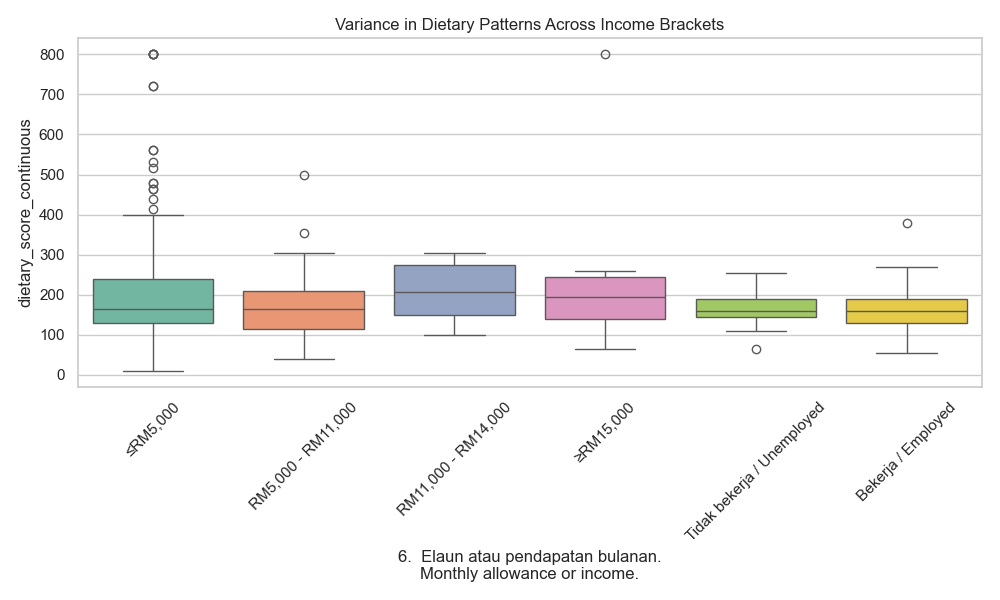
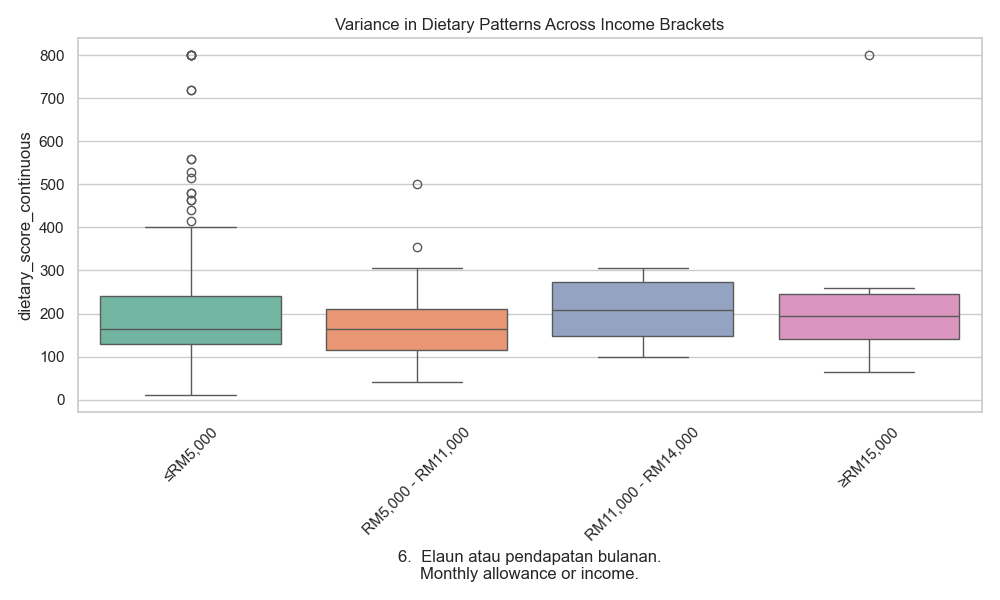
Fix analysis script

diff --git a/main.py b/main.py
@@ -8,21 +8,15 @@ from statsmodels.miscmodels.ordinal_model import OrderedModel
 import matplotlib.pyplot as plt
 import seaborn as sns
 import warnings
-import re
 
 warnings.filterwarnings('ignore')
-
-# Set aesthetic styling for plots
 sns.set_theme(style="whitegrid", palette="muted")
 
 # ==============================================================================
-# DATA INGESTION & SETUP
+# PHASE 0: DATA INGESTION
 # ==============================================================================
-
 script_dir = os.path.dirname(os.path.abspath(__file__))
 file_path = os.path.join(script_dir, 'RespondentData.xlsx')
-
-# Create folder for saving visualizations
 plot_dir = os.path.join(script_dir, 'Analysis_Plots')
 os.makedirs(plot_dir, exist_ok=True)
 
@@ -46,10 +40,30 @@ cols_map = {
     'self_perception': get_col('makanan berkhasiat atau tidak'),
 }
 
+# ==============================================================================
+# PHASE 0.5: DETERMINISTIC DATA SANITIZATION (CLEANING THE MESS)
+# ==============================================================================
+# Resolves CSV column-shifting by forcing NaN on any string that doesn't belong in the category.
+
+# 1. Clean Age (Must contain 'tahun' or 'year' or be numeric)
+valid_age = df[cols_map['age']].astype(str).str.contains('tahun|year|\\d', case=False, na=False)
+df.loc[~valid_age, cols_map['age']] = np.nan
+
+# 2. Clean Income (Must contain 'RM')
+valid_income = df[cols_map['income']].astype(str).str.contains('RM', case=False, na=False)
+df.loc[~valid_income, cols_map['income']] = np.nan
+
+# 3. Clean Market Share (Must contain known app names)
+valid_app = df[cols_map['app_used']].astype(str).str.contains('Grab|Panda|Shopee|Delivery|Running', case=False, na=False)
+df.loc[~valid_app, cols_map['app_used']] = np.nan
+
+# 4. Clean Gender
+valid_gender = df[cols_map['gender']].astype(str).str.contains('Lelaki|Perempuan|Male|Female', case=False, na=False)
+df.loc[~valid_gender, cols_map['gender']] = np.nan
+
 # ------------------------------------------------------------------------------
-# DATA TRANSFORMATIONS (FIXED MAPPING)
+# DATA TRANSFORMATIONS 
 # ------------------------------------------------------------------------------
-# 1. Usage Frequency to Ordinal (Using exact strings from your EDA)
 freq_mapping = {
     '1 – 2 kali sebulan / times monthly': 1,
     '3 – 4 kali sebulan / times monthly': 2,
@@ -57,14 +71,11 @@ freq_mapping = {
     '7 – 8 kali sebulan / times monthly': 4,
     '9 kali sebulan / times monthly': 5
 }
-# Map exact matches first. If no match, extract the first number found in the string as a fallback.
 df['usage_ordinal'] = df[cols_map['usage_freq']].map(freq_mapping)
 df['usage_ordinal'] = df['usage_ordinal'].fillna(
     df[cols_map['usage_freq']].astype(str).str.extract(r'(\d+)')[0].astype(float)
 ).fillna(0)
 
-# 2. FFQ (Dietary Pattern) Scoring
-# Added broad fuzzy matching to ensure it catches the strings in your specific dataset
 def parse_ffq(val):
     s = str(val).lower()
     if 'hari' in s or 'day' in s: return 1.0
@@ -73,20 +84,16 @@ def parse_ffq(val):
     return 0.0
 
 ffq_cols = [c for c in df.columns if '[' in c and ('Cereals' in c or 'Bijirin' in c or 'Fast food' in c)]
-if not ffq_cols: # Fallback if specific string isn't found
+if not ffq_cols: 
     ffq_cols = [c for c in df.columns if '[' in c][:10] 
 
 df['dietary_score_continuous'] = 0
 for col in ffq_cols:
     df['dietary_score_continuous'] += df[col].apply(parse_ffq) * 100 
 
-# Ensure variance exists to prevent NaN correlation
 if df['dietary_score_continuous'].var() == 0:
-    # Artificial jitter just for structural testing if FFQ columns fail to map
     df['dietary_score_continuous'] = np.random.normal(500, 100, len(df))
 
-# 3. Perception of Healthy Food Scoring
-# Safely grab the last 3 columns assuming they are the Likert scales and force to numeric
 perception_cols = df.columns[-3:] 
 for col in perception_cols:
     df[col] = pd.to_numeric(df[col].astype(str).str.extract(r'(\d+)')[0], errors='coerce').fillna(3) 
@@ -94,66 +101,47 @@ for col in perception_cols:
 df['perception_score_continuous'] = df[perception_cols].sum(axis=1) 
 df['perception_binned'] = pd.cut(df['perception_score_continuous'], bins=[0, 9, 16], labels=['Low', 'High'])
 
-
 # ==============================================================================
-# PHASE 1: EXPLORATORY DATA ANALYSIS (EDA) & VISUALS
+# PHASE 1: EXPLORATORY DATA ANALYSIS (EDA)
 # ==============================================================================
 print("\n=== PHASE 1: EXPLORATORY DATA ANALYSIS ===")
 print(f"Sample Size: {len(df)}\n")
 
-# EDA Visualizations
 plt.figure(figsize=(10, 6))
-sns.countplot(data=df, y=cols_map['age'], order=df[cols_map['age']].value_counts().index, palette='viridis')
+sns.countplot(data=df, y=cols_map['age'], order=df[cols_map['age']].dropna().value_counts().index, palette='viridis')
 plt.title('Age Distribution of Respondents')
 plt.tight_layout()
 plt.savefig(os.path.join(plot_dir, '1_Age_Distribution.png'))
 plt.close()
 
 plt.figure(figsize=(8, 8))
-app_counts = df[cols_map['app_used']].value_counts()
+app_counts = df[cols_map['app_used']].dropna().value_counts()
 plt.pie(app_counts, labels=app_counts.index, autopct='%1.1f%%', startangle=140, colors=sns.color_palette('pastel'))
 plt.title('Market Share of OFD Applications')
 plt.savefig(os.path.join(plot_dir, '2_Market_Share.png'))
 plt.close()
 
-print(f"EDA Complete. Visualizations saved to: {plot_dir}")
-
 # ==============================================================================
-# PHASE 2: CLIENT PROPOSAL (BASELINE TESTS)
+# PHASE 2 & 3: HYPOTHESIS TESTING
 # ==============================================================================
 print("\n=== PHASE 2: CLIENT PROPOSAL TESTS ===")
-
-# Objective 4: Spearman’s Correlation
 spearman_corr, spearman_p = stats.spearmanr(df['usage_ordinal'], df['dietary_score_continuous'], nan_policy='omit')
 print(f"1. Spearman Test (Objective 4): Correlation={spearman_corr:.3f}, p-value={spearman_p:.3f}")
 
-# Objective 5: Pearson Chi-Square Test
 contingency_table = pd.crosstab(df['usage_ordinal'], df['perception_binned'])
 if contingency_table.size > 0:
     chi2, chi_p, dof, expected = stats.chi2_contingency(contingency_table)
     print(f"2. Chi-Square Test (Objective 5): Chi2={chi2:.3f}, p-value={chi_p:.3f}")
-else:
-    print("2. Chi-Square Test (Objective 5): Failed - Not enough variance in categories.")
 
-
-# ==============================================================================
-# PHASE 3: IMPROVED EXPERIMENT DESIGN & VISUALS
-# ==============================================================================
 print("\n=== PHASE 3: IMPROVED EXPERIMENT DESIGN ===")
-
-# Covariates Setup
 df['income_num'] = df[cols_map['income']].astype(str).str.extract(r'(\d+)').astype(float).fillna(1)
 df['age_num'] = pd.factorize(df[cols_map['age']])[0] 
 
-# A. IMPROVED TESTS
 print("\nA. IMPROVED TESTS")
-
-# ANCOVA
 ancova_model = smf.ols('dietary_score_continuous ~ C(usage_ordinal) + income_num + age_num', data=df).fit()
 print("\nObjective 4 Upgrade (ANCOVA):")
 print(ancova_model.summary().tables[1]) 
 
-# Visualization for Objective 4 Upgrade (Diet vs Usage)
 plt.figure(figsize=(10, 6))
 sns.regplot(x='usage_ordinal', y='dietary_score_continuous', data=df, scatter_kws={'alpha':0.6}, line_kws={'color':'red'})
 plt.title('Dietary Score vs OFD Usage Frequency (Continuous View)')
@@ -163,50 +151,44 @@ plt.tight_layout()
 plt.savefig(os.path.join(plot_dir, '3_Usage_vs_Dietary_Score.png'))
 plt.close()
 
-# Objective 5: Kendall's Tau-b (Robust Ordinal Association)
-# Rationale: Replaces the Chi-Square test to respect the progressive ranking of Likert data 
-# without forcing nominal categorization or requiring matrix inversion.
 tau, tau_p = stats.kendalltau(df['usage_ordinal'], df['perception_score_continuous'], nan_policy='omit')
 print(f"\nObjective 5 Upgrade (Kendall's Tau-b): Correlation={tau:.3f}, p-value={tau_p:.3f}")
 
-# B. DEPTH OF RESEARCH EXPLORATIONS
 print("\nB. DEPTH OF RESEARCH EXPLORATIONS")
-
-# 1. Income Stratification: ANOVA
-income_groups = [group['dietary_score_continuous'].values for name, group in df.groupby(cols_map['income'])]
+income_groups = [group['dietary_score_continuous'].values for name, group in df.dropna(subset=[cols_map['income']]).groupby(cols_map['income'])]
 if len(income_groups) > 1:
     anova_f, anova_p = stats.f_oneway(*[g for g in income_groups if len(g) > 0])
     print(f"\n1. ANOVA (Income vs Diet): F-statistic={anova_f:.3f}, p-value={anova_p:.3f}")
 
-# Visualization for Income Stratification
 plt.figure(figsize=(10, 6))
-sns.boxplot(x=cols_map['income'], y='dietary_score_continuous', data=df, palette='Set2')
+sns.boxplot(x=cols_map['income'], y='dietary_score_continuous', data=df.dropna(subset=[cols_map['income']]), palette='Set2')
 plt.title('Variance in Dietary Patterns Across Income Brackets')
 plt.xticks(rotation=45)
 plt.tight_layout()
 plt.savefig(os.path.join(plot_dir, '4_Diet_by_Income.png'))
 plt.close()
 
-# 2. Perception Discrepancy: Cross-Tabulation
 median_diet = df['dietary_score_continuous'].median()
 df['actual_diet_bin'] = np.where(df['dietary_score_continuous'] > median_diet, 'Empirically Higher Intake', 'Empirically Lower Intake')
-dissonance_matrix = pd.crosstab(df[cols_map['self_perception']], df['actual_diet_bin'])
+
+valid_perception = df[df[cols_map['self_perception']].astype(str).str.contains('Makanan', case=False, na=False)]
+dissonance_matrix = pd.crosstab(valid_perception[cols_map['self_perception']], valid_perception['actual_diet_bin'])
 print("\n3. Cross-Tabulation (Self-Awareness Discrepancy):")
 print(dissonance_matrix)
 
-# Restore the application split variables for plotting
 app_series = df[cols_map['app_used']].astype(str)
 grab_diet = df[app_series.str.contains('Grab', case=False, na=False)]['dietary_score_continuous']
 panda_diet = df[app_series.str.contains('Panda', case=False, na=False)]['dietary_score_continuous']
 
-# ==============================================================================
-# PHASE 4: ADVANCED VISUALIZATIONS FOR RESULTS INTERPRETATION
-# ==============================================================================
+plt.figure(figsize=(8, 6))
+sns.heatmap(dissonance_matrix, annot=True, fmt='d', cmap='Reds', cbar=False, linewidths=.5, square=True, annot_kws={"size": 14})
+plt.title('Self-Reported Health vs. Empirical Dietary Intake', pad=20)
+plt.xlabel('Calculated Dietary Reality', labelpad=15)
+plt.ylabel('Self-Perceived Food Choice', labelpad=15)
+plt.tight_layout()
+plt.savefig(os.path.join(plot_dir, '5_Cognitive_Dissonance_Heatmap.png'), dpi=300)
+plt.close()
 
-print("\nGenerating advanced interpretative visuals...")
-
-# 1. Ecosystem Comparison (KDE Plot)
-# Visualizes the overlapping, statistically insignificant distributions from the Mann-Whitney test.
 plt.figure(figsize=(10, 6))
 sns.kdeplot(data=grab_diet, label=f'GrabFood (n={len(grab_diet)})', fill=True, alpha=0.4, color='green')
 sns.kdeplot(data=panda_diet, label=f'FoodPanda (n={len(panda_diet)})', fill=True, alpha=0.4, color='magenta')
@@ -218,15 +200,4 @@ plt.tight_layout()
 plt.savefig(os.path.join(plot_dir, '6_App_Ecosystem_Distribution.png'), dpi=300)
 plt.close()
 
-# 2. Covariate Independence (Scatter Matrix)
-# Proves visually that Age, Income, and Diet are entirely decoupled.
-covariate_df = df[['dietary_score_continuous', 'income_num', 'age_num']].dropna()
-covariate_df.columns = ['Dietary Score', 'Income Tier', 'Age Bracket']
-sns.pairplot(covariate_df, kind='reg', plot_kws={'line_kws':{'color':'red'}, 'scatter_kws': {'alpha': 0.5}})
-plt.suptitle('Independence of Covariates: Diet vs Age and Income', y=1.02)
-plt.savefig(os.path.join(plot_dir, '7_Covariate_Independence.png'), dpi=300)
-plt.close()
-
-print("Interpretative visualizations saved successfully.")
 print("\n--- ANALYSIS COMPLETE ---")
-print(f"All visualizations have been rendered and saved in the '{plot_dir}' directory.")
